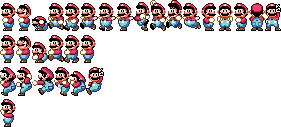
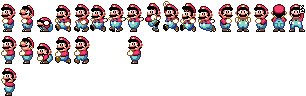
Minor changes

diff --git a/Semester 2/SuperMarioWorld/Mario.cpp b/Semester 2/SuperMarioWorld/Mario.cpp
@@ -12,7 +12,7 @@ Mario::Mario()
 	,m_IsGrabbing{false}
 	,m_LookUp{false}
 	,m_Duck{false}
-	,m_AnimState{AnimState::neutral}
+	,m_CurrentAnim{AnimState::neutral}
 	,m_AnimTime{0}
 	,m_FramesPerSec{10}
 	,m_SpeedTreshHold{200}
@@ -129,11 +129,11 @@ void Mario::UpdateAnim(float elapsedSec)
 	float frameSpeedMultiplier{ std::abs(m_Velocity.x) / (m_MaxSpeed - 2 * m_WalkSpeed) };
 	if (m_IsInAir && m_Velocity.y > 0)
 	{
-		m_AnimState = AnimState::jump;
+		m_CurrentAnim = AnimState::jump;
 	}
 	else if (m_IsInAir)
 	{
-		m_AnimState = AnimState::fall;
+		m_CurrentAnim = AnimState::fall;
 	}
 	else if (IsAtWalkingSpeed())
 	{
@@ -141,8 +141,8 @@ void Mario::UpdateAnim(float elapsedSec)
 		if (m_AnimTime >= (1.0f / m_FramesPerSec))
 		{
 			m_AnimTime = 0;
-			if (m_AnimState == AnimState::neutral) m_AnimState = AnimState::walk;
-			else m_AnimState = AnimState::neutral;
+			if (m_CurrentAnim == AnimState::neutral) m_CurrentAnim = AnimState::walk;
+			else m_CurrentAnim = AnimState::neutral;
 		}
 	}
 	else if (IsAtRunningSpeed())
@@ -151,17 +151,17 @@ void Mario::UpdateAnim(float elapsedSec)
 		if (m_AnimTime >= (1.0f / (m_FramesPerSec * frameSpeedMultiplier)))
 		{
 			m_AnimTime = 0;
-			if (m_AnimState == AnimState::runNeutral) m_AnimState = AnimState::run;
-			else m_AnimState = AnimState::runNeutral;
+			if (m_CurrentAnim == AnimState::runNeutral) m_CurrentAnim = AnimState::run;
+			else m_CurrentAnim = AnimState::runNeutral;
 		}
 	}
-	else if (m_LookUp) m_AnimState = AnimState::lookUp;
-	else m_AnimState = AnimState::neutral;
-	if (m_Duck) m_AnimState = AnimState::duck;
+	else if (m_LookUp) m_CurrentAnim = AnimState::lookUp;
+	else m_CurrentAnim = AnimState::neutral;
+	if (m_Duck) m_CurrentAnim = AnimState::duck;
 
 	if (m_IsGrabbing)
 	{
-		switch (m_AnimState)
+		switch (m_CurrentAnim)
 		{
 		case Mario::AnimState::neutral:
 		case Mario::AnimState::lookUp:
@@ -169,16 +169,16 @@ void Mario::UpdateAnim(float elapsedSec)
 		case Mario::AnimState::walk:
 			break;
 		default:
-			m_AnimState = AnimState::walk;
+			m_CurrentAnim = AnimState::walk;
 			break;
 		}
 		// % 7 is safety measure
-		m_Rect.left = (int(m_AnimState) % 7) * m_Rect.width;
+		m_Rect.left = (int(m_CurrentAnim) % 7) * m_Rect.width;
 		m_Rect.bottom = 2 * (m_pTexture->GetHeight() / 3);
 	}
 	else
 	{
-		m_Rect.left = int(m_AnimState) * m_Rect.width;
+		m_Rect.left = int(m_CurrentAnim) * m_Rect.width;
 		m_Rect.bottom = (m_pTexture->GetHeight() / 3);
 	}
 }

diff --git a/Semester 2/SuperMarioWorld/Mario.h b/Semester 2/SuperMarioWorld/Mario.h
@@ -35,13 +35,14 @@ private:
 		jump = 7,
 		fall = 8,
 		jumpRun = 9,
-		spinJump1 = 10,spinJump2 = 11,spinJump3 = 12,spinJump4 = 13
+		spinJump1 = 10,spinJump2 = 11,spinJump3 = 12,spinJump4 = 13,
+		victory = 17
 	};
-	const Texture* m_pTexture;
+	Texture* m_pTexture;
 	bool m_IsGrabbing;
 	bool m_LookUp;
 	bool m_Duck;
-	AnimState m_AnimState;
+	AnimState m_CurrentAnim;
 	float m_AnimTime;
 	int m_FramesPerSec;
 
